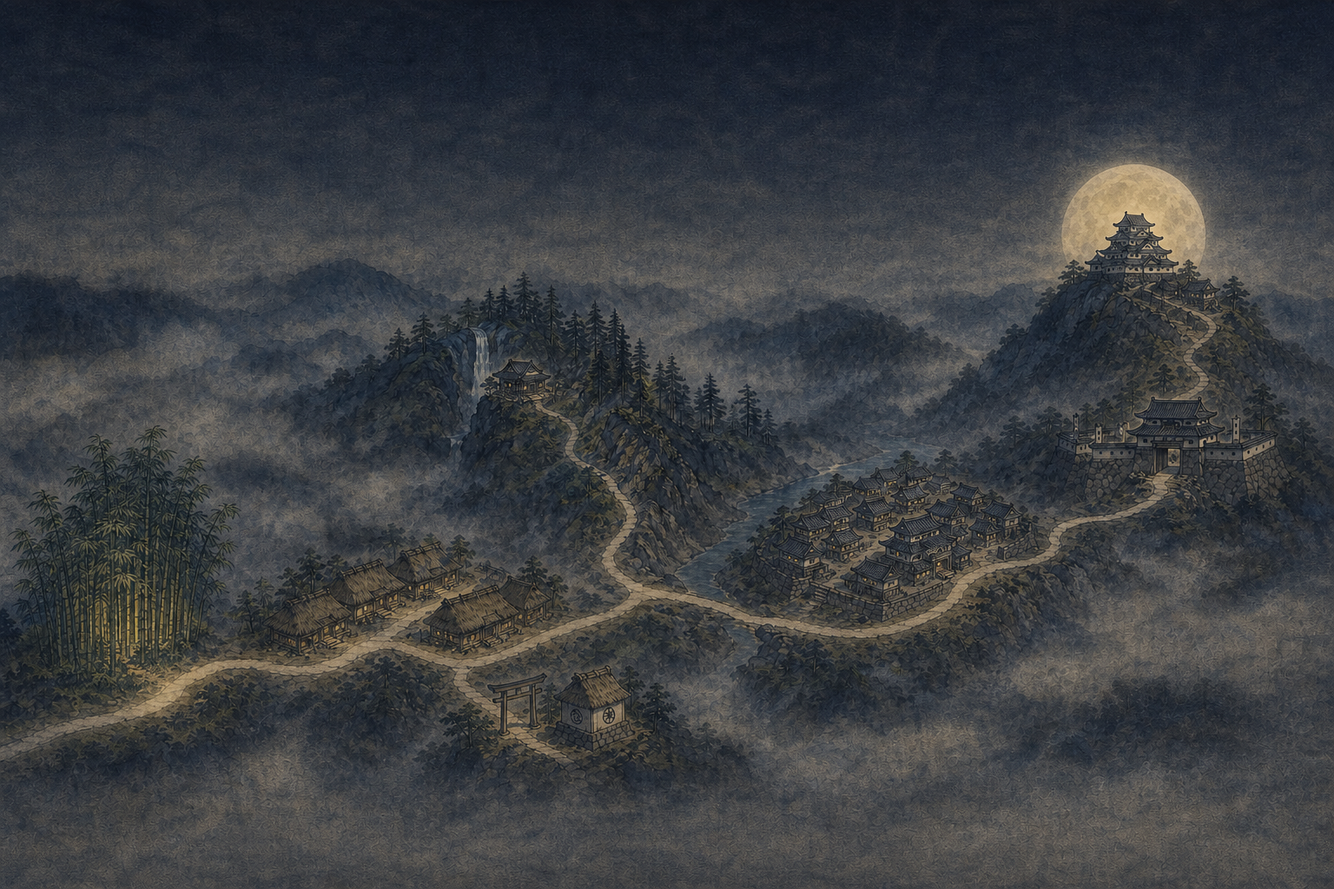
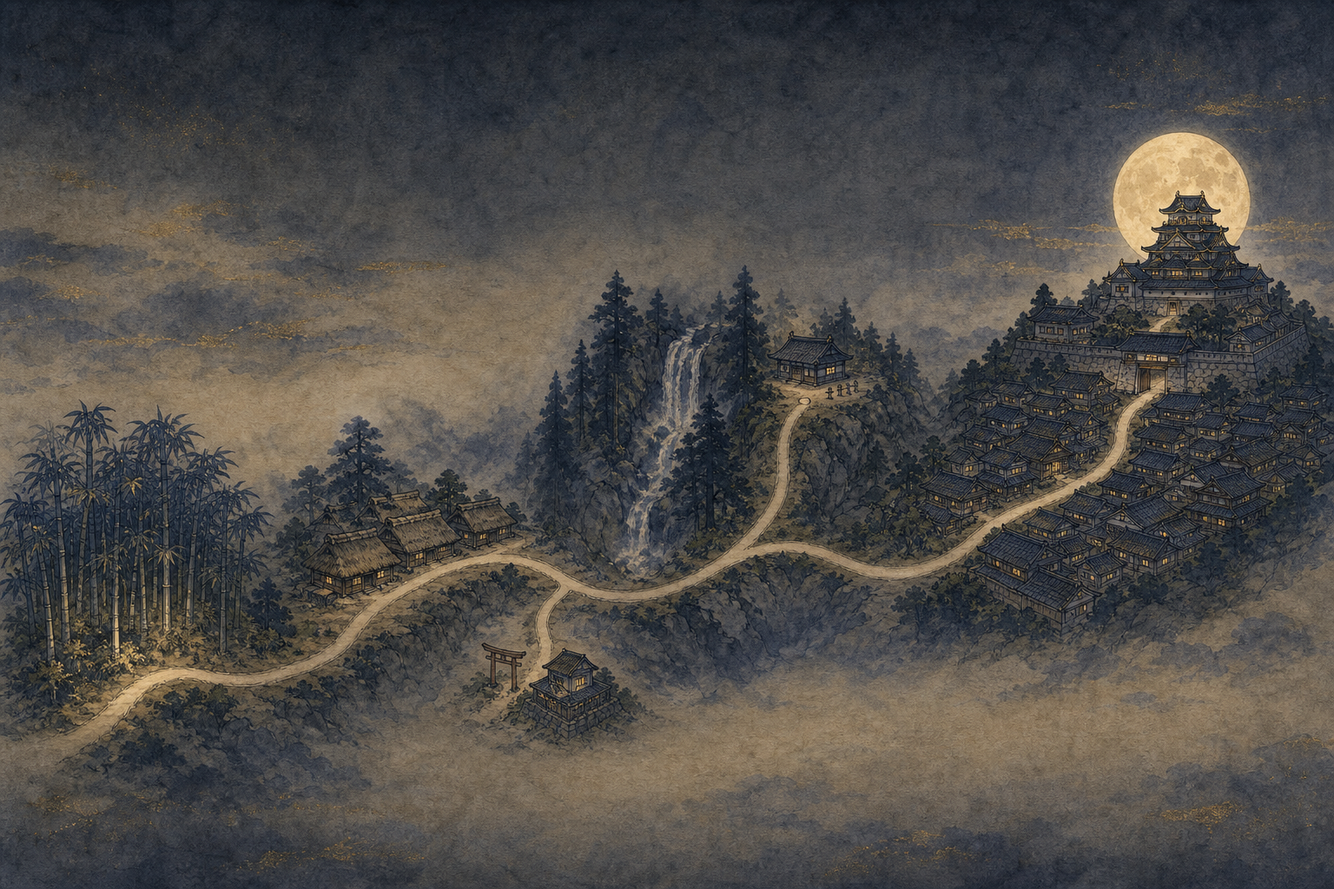
マップを「一本道＋城郭都市」の構図で作り直し
絵そのものの道が網目状で一本道になっていなかった＋構図の追加指示
(⑤⑥は同じ城の中・城下町の中に城・街道→山道→城下町が一本で繋がる)を反映。

- Codex(imagegen)でプロンプトを強化して再生成:
  「道は一本の街道だけ。交差・環状・並行・網目は禁止。例外は行き止まりの
  脇道2本(小判蔵+鳥居/滝のそばの道場)」
  「城下町・城門・天守は一体の城郭都市。町の中に城。門の先の短い坂で天守へ」
- WORLD_MAP_NODES / WORLD_MAP_ROUTE を新しい絵に合わせて再調整。
  5(城門)と6(天守)は同じ城郭内の縦並びに。
- プロンプト正本(map_generation_prompt.md)と再生成スクリプト2種
  (generate-worldmap-codex.sh / generate-worldmap.mjs)を同文へ同期。

検証(preview 767x353 + 1280x720): 1→6が絵の一本道に沿って繋がること、
城下町→城門→天守が近接クラスタで違和感がないこと、
ノード6とBGMボタンの距離(スマホ 90.3 > 必要63.5)。

diff --git a/js/game.js b/js/game.js
@@ -2,12 +2,12 @@
 // Unification of the Nation - ゲームコア
 // ============================================
 
-import { CANVAS_WIDTH, SCREEN_WIDTH, CANVAS_HEIGHT, GAME_STATE, STAGES, DIFFICULTY, OBSTACLE_TYPES, PLAYER, STAGE_DEFAULT_WEAPON, LANE_OFFSET, STAGE6_CORNER, UI_SIZE_ANCHOR, getDeviceProfile, setUiScaleFromFitScale, setCornerInsets, setNotchInsetX, setVirtualPadVisible, setBgmButtonVisible } from './constants.js?v=screen-safe-20260810e';
-import { BOSS_STAGING } from './bossStaging.js?v=screen-safe-20260810e';
-import { isUpdateAvailable, applyUpdate, checkForUpdate } from './appUpdate.js?v=screen-safe-20260810e';
-import { getStageSelectLayout, renderStageSelect } from './stageSelect.js?v=screen-safe-20260810e';
-import { readPhysicalScreen, computeScreenWidth } from './screenGeometry.js?v=screen-safe-20260810e';
-import { input } from './input.js?v=screen-safe-20260810e';
+import { CANVAS_WIDTH, SCREEN_WIDTH, CANVAS_HEIGHT, GAME_STATE, STAGES, DIFFICULTY, OBSTACLE_TYPES, PLAYER, STAGE_DEFAULT_WEAPON, LANE_OFFSET, STAGE6_CORNER, UI_SIZE_ANCHOR, getDeviceProfile, setUiScaleFromFitScale, setCornerInsets, setNotchInsetX, setVirtualPadVisible, setBgmButtonVisible } from './constants.js?v=screen-safe-20260810f';
+import { BOSS_STAGING } from './bossStaging.js?v=screen-safe-20260810f';
+import { isUpdateAvailable, applyUpdate, checkForUpdate } from './appUpdate.js?v=screen-safe-20260810f';
+import { getStageSelectLayout, renderStageSelect } from './stageSelect.js?v=screen-safe-20260810f';
+import { readPhysicalScreen, computeScreenWidth } from './screenGeometry.js?v=screen-safe-20260810f';
+import { input } from './input.js?v=screen-safe-20260810f';
 
 // 最上層の会敵歩行の速度倍率。決戦前の一歩を重くするため通常より遅く歩かせる。
 const STAGE6_APPROACH_SPEED_SCALE = 0.46;   // 会敵歩行の速さ(通常歩行に対する比)
@@ -45,18 +45,18 @@ const STAGE6_DUEL_LEAD_OUT_MS = 1400;   // 開戦後に通常追従へ戻す
 // ボスが足を止めてから名乗りまでの実測483msで残差1.5pxまで収束する。
 const STAGE6_DUEL_LEAD_OMEGA = 12;
 const STAGE6_DUEL_LEAD_MAX_PX = 460;    // 先行量の上限(異常な間合いでカメラが飛ばない保険)
-import { Player } from './player.js?v=screen-safe-20260810e';
-import { createSubWeapon } from './weapon.js?v=screen-safe-20260810e';
-import { Stage, preloadStageImages, prefetchStageImages, areStageImagesSettled } from './stage.js?v=screen-safe-20260810e';
-import { GRAPPLE_PHASE } from './stage6Grapple.js?v=screen-safe-20260810e';
-import { UI, renderTitleScreen, renderTitleDebugWindow, renderGameOverScreen, renderStatusScreen, renderStageClearAnnouncement, renderLevelUpChoiceScreen, renderPauseScreen, getPauseReturnButton, renderGameClearScreen, renderIntro, renderEnding, getTitleScreenLayout, getStatusScreenLayout, getTitleDebugLayout, getUpdateModalLayout, renderBossNameBanner } from './ui.js?v=screen-safe-20260810e';
-import { CollisionManager, checkPlayerEnemyCollision, checkEnemyAttackHit } from './collision.js?v=screen-safe-20260810e';
-import { saveManager } from './save.js?v=screen-safe-20260810e';
-import { shop } from './shop.js?v=screen-safe-20260810e';
-import { audio } from './audio.js?v=screen-safe-20260810e';
-import { ShadowRenderer } from './shadow.js?v=screen-safe-20260810e';
-import { applyShogunCombat } from './shogunCombatHelper.js?v=screen-safe-20260810e';
-import { getRockVisualPalette } from './obstacle.js?v=screen-safe-20260810e';
+import { Player } from './player.js?v=screen-safe-20260810f';
+import { createSubWeapon } from './weapon.js?v=screen-safe-20260810f';
+import { Stage, preloadStageImages, prefetchStageImages, areStageImagesSettled } from './stage.js?v=screen-safe-20260810f';
+import { GRAPPLE_PHASE } from './stage6Grapple.js?v=screen-safe-20260810f';
+import { UI, renderTitleScreen, renderTitleDebugWindow, renderGameOverScreen, renderStatusScreen, renderStageClearAnnouncement, renderLevelUpChoiceScreen, renderPauseScreen, getPauseReturnButton, renderGameClearScreen, renderIntro, renderEnding, getTitleScreenLayout, getStatusScreenLayout, getTitleDebugLayout, getUpdateModalLayout, renderBossNameBanner } from './ui.js?v=screen-safe-20260810f';
+import { CollisionManager, checkPlayerEnemyCollision, checkEnemyAttackHit } from './collision.js?v=screen-safe-20260810f';
+import { saveManager } from './save.js?v=screen-safe-20260810f';
+import { shop } from './shop.js?v=screen-safe-20260810f';
+import { audio } from './audio.js?v=screen-safe-20260810f';
+import { ShadowRenderer } from './shadow.js?v=screen-safe-20260810f';
+import { applyShogunCombat } from './shogunCombatHelper.js?v=screen-safe-20260810f';
+import { getRockVisualPalette } from './obstacle.js?v=screen-safe-20260810f';
 
 // 端末ディスプレイの角丸推定（updateCornerInsets が使う）。
 // R ≒ 画面短辺 × 11%。退避量はコーナー円の幾何最小 0.293R に円形ボタンぶんの
@@ -1117,7 +1117,7 @@ class Game {
         shop.reset();
 
         // 武器作成関数をインポート
-        import('./weapon.js?v=screen-safe-20260810e').then(module => {
+        import('./weapon.js?v=screen-safe-20260810f').then(module => {
             // 基本ステータス復元
             this.currentStageNumber = saveData.progress.currentStage;
             // セレクト画面の解放判定。旧セーブ(フィールド無し)は「保存された次のステージ

diff --git a/js/stageSelect.js b/js/stageSelect.js
@@ -9,8 +9,8 @@
 // ノード座標は「画像内の比率(u,v)」で持ち、cover 変換で画面座標へ写す。
 // 画像を差し替えても u,v を微調整するだけで済む（map_generation_prompt.md 参照）。
 
-import { SCREEN_WIDTH, CANVAS_HEIGHT, STAGES, getUiScale, getFontScale, getScreenSafeArea, isTouchOverlayMode } from './constants.js?v=screen-safe-20260810e';
-import { drawWafuCard, fillTextInkCentered, drawScreenManualLine } from './ui.js?v=screen-safe-20260810e';
+import { SCREEN_WIDTH, CANVAS_HEIGHT, STAGES, getUiScale, getFontScale, getScreenSafeArea, isTouchOverlayMode } from './constants.js?v=screen-safe-20260810f';
+import { drawWafuCard, fillTextInkCentered, drawScreenManualLine } from './ui.js?v=screen-safe-20260810f';
 
 // ノード定義。kind: main=本編 / bonus=小判蔵 / training=道場。
 // bonus/training はフェーズ2で解放（データだけ先に持ち、表示は main のみ）。
@@ -19,27 +19,27 @@ import { drawWafuCard, fillTextInkCentered, drawScreenManualLine } from './ui.js
 // （円がランドマークを隠すと絵が見えない、と実機フィードバック）。
 // 画像を再生成したらここを目視で微調整する。
 export const WORLD_MAP_NODES = [
-    { id: 1, kind: 'main', u: 0.165, v: 0.815 },  // 竹林の入口（竹やぶ右下の道）
-    { id: 2, kind: 'main', u: 0.300, v: 0.775 },  // 宿場の前の街道
-    { id: 3, kind: 'main', u: 0.500, v: 0.475 },  // 峠の頂の道
-    { id: 4, kind: 'main', u: 0.655, v: 0.700 },  // 城下町の南の街道
-    { id: 5, kind: 'main', u: 0.850, v: 0.565 },  // 城門の前
+    { id: 1, kind: 'main', u: 0.115, v: 0.765 },  // 竹林の入口（道の起点近く）
+    { id: 2, kind: 'main', u: 0.305, v: 0.655 },  // 宿場の前の街道
+    { id: 3, kind: 'main', u: 0.545, v: 0.520 },  // 峠（滝の右の高み）
+    { id: 4, kind: 'main', u: 0.700, v: 0.615 },  // 城下町の入口（町並みの手前）
+    { id: 5, kind: 'main', u: 0.865, v: 0.425 },  // 城門（町の奥・石垣）
     // 6 はスマホ(wide)の縦クロップで上へ寄るため、右上のBGMボタンとの重なりに注意
-    { id: 6, kind: 'main', u: 0.845, v: 0.345 },  // 天守へ登る坂（天守と月は隠さない）
-    { id: 'bonus1', kind: 'bonus', u: 0.410, v: 0.800 },     // 小判蔵（鳥居の脇道）
-    { id: 'training1', kind: 'training', u: 0.400, v: 0.435 } // 道場（滝のそば）
+    { id: 6, kind: 'main', u: 0.868, v: 0.300 },  // 天守閣（月の下）
+    { id: 'bonus1', kind: 'bonus', u: 0.405, v: 0.740 },      // 小判蔵（鳥居の脇道・行き止まり）
+    { id: 'training1', kind: 'training', u: 0.605, v: 0.415 } // 道場（滝の上の建物）
 ];
 
 // 街道のウェイポイント（ノードiからi+1への中間点列・画像内比率）。
 // 経路線はノード同士を直線で結ばず、この点列で**絵に描かれた一本道**をなぞる
 // （直結だと谷や町を突っ切る線になり「道」に見えない、と実機フィードバック）。
 const WORLD_MAP_ROUTE = [
-    [{ u: 0.215, v: 0.805 }, { u: 0.255, v: 0.795 }],                                     // 1→2 宿場へ
-    [{ u: 0.370, v: 0.755 }, { u: 0.415, v: 0.705 }, { u: 0.437, v: 0.630 },
-     { u: 0.455, v: 0.550 }, { u: 0.476, v: 0.500 }],                                     // 2→3 峠越え
-    [{ u: 0.522, v: 0.520 }, { u: 0.556, v: 0.585 }, { u: 0.600, v: 0.648 }],             // 3→4 川沿いに下る
-    [{ u: 0.712, v: 0.716 }, { u: 0.770, v: 0.705 }, { u: 0.815, v: 0.655 }],             // 4→5 城門へ登る
-    [{ u: 0.863, v: 0.510 }, { u: 0.870, v: 0.452 }, { u: 0.860, v: 0.398 }]              // 5→6 天守への坂
+    [{ u: 0.170, v: 0.745 }, { u: 0.225, v: 0.710 }, { u: 0.265, v: 0.680 }],             // 1→2 宿場へ
+    [{ u: 0.365, v: 0.630 }, { u: 0.415, v: 0.612 }, { u: 0.470, v: 0.580 },
+     { u: 0.510, v: 0.550 }],                                                             // 2→3 峠へ登る
+    [{ u: 0.585, v: 0.470 }, { u: 0.622, v: 0.478 }, { u: 0.655, v: 0.545 }],             // 3→4 町へ下る
+    [{ u: 0.755, v: 0.575 }, { u: 0.808, v: 0.520 }, { u: 0.843, v: 0.468 }],             // 4→5 町を抜け城門へ
+    [{ u: 0.873, v: 0.375 }, { u: 0.872, v: 0.335 }]                                      // 5→6 天守への坂
 ];
 
 // フォールバック座標系（画像未配置のとき）。生成指示と同じ 1536x1024 を仮想画像として

diff --git a/js/player.js b/js/player.js
@@ -2,11 +2,11 @@
 // Unification of the Nation - プレイヤークラス
 // ============================================
 
-import { PLAYER, GRAVITY, FRICTION, COLORS, LANE_OFFSET } from './constants.js?v=screen-safe-20260810e';
-import { input } from './input.js?v=screen-safe-20260810e';
+import { PLAYER, GRAVITY, FRICTION, COLORS, LANE_OFFSET } from './constants.js?v=screen-safe-20260810f';
+import { input } from './input.js?v=screen-safe-20260810f';
 console.log('[player.js] Imported input instance:', input ? input.instanceId : 'undefined');
-import { audio } from './audio.js?v=screen-safe-20260810e';
-import { game } from './game.js?v=screen-safe-20260810e';
+import { audio } from './audio.js?v=screen-safe-20260810f';
+import { game } from './game.js?v=screen-safe-20260810f';
 import {
     ANIM_STATE, COMBO_ATTACKS, calcExpToNextForLevel,
     BASE_EXP_TO_NEXT, TEMP_NINJUTSU_MAX_STACK_MS, LEVEL_UP_MAX_HP_GAIN, LEVEL_UP_ATK_GAIN,
@@ -14,17 +14,17 @@ import {
     PLAYER_PONYTAIL_CONNECT_LIFT_Y, PLAYER_PONYTAIL_ROOT_ANGLE_RIGHT,
     PLAYER_PONYTAIL_ROOT_ANGLE_LEFT, PLAYER_PONYTAIL_ROOT_SHIFT_X,
     PLAYER_PONYTAIL_NODE_ROOT_OFFSET_X, PLAYER_PONYTAIL_NODE_ROOT_OFFSET_Y
-} from './playerData.js?v=screen-safe-20260810e';
+} from './playerData.js?v=screen-safe-20260810f';
 import {
     applyNormalComboActiveMotion,
     applyNormalComboStartMotion,
     freezeNormalComboFinisherTrailCurve,
     prepareNormalComboFinisherProfile
-} from './normalComboMotion.js?v=screen-safe-20260810e';
-import { applyRendererMixin }    from './playerRenderer.js?v=screen-safe-20260810e';
-import { applySlashTrailMixin }  from './playerSlashTrail.js?v=screen-safe-20260810e';
-import { applySpecialMixin }     from './playerSpecial.js?v=screen-safe-20260810e';
-import { applyShogunCombat }    from './shogunCombatHelper.js?v=screen-safe-20260810e';
+} from './normalComboMotion.js?v=screen-safe-20260810f';
+import { applyRendererMixin }    from './playerRenderer.js?v=screen-safe-20260810f';
+import { applySlashTrailMixin }  from './playerSlashTrail.js?v=screen-safe-20260810f';
+import { applySpecialMixin }     from './playerSpecial.js?v=screen-safe-20260810f';
+import { applyShogunCombat }    from './shogunCombatHelper.js?v=screen-safe-20260810f';
 import {
     SHOGUN_ACTOR_BASE_HEIGHT,
     SHOGUN_ACTOR_BASE_WIDTH,
@@ -38,7 +38,7 @@ import {
     SHOGUN_CROUCH_STANCE_DUTY,
     NINJA_CROUCH_STRIDE_AMP,
     SHOGUN_CROUCH_STRIDE_AMP
-} from './shogunConstants.js?v=screen-safe-20260810e';
+} from './shogunConstants.js?v=screen-safe-20260810f';
 
 const clamp01 = (v) => Math.max(0, Math.min(1, v));
 

diff --git a/js/stage.js b/js/stage.js
@@ -2,19 +2,19 @@
 // Unification of the Nation - ステージ管理
 // ============================================
 
-import { CANVAS_WIDTH, CANVAS_HEIGHT, SCREEN_WIDTH, STAGES, ENEMY_TYPES, OBSTACLE_TYPES, LANE_OFFSET, STAGE5_FLOOR, STAGE6_CORNER } from './constants.js?v=screen-safe-20260810e';
-import { BOSS_STAGING } from './bossStaging.js?v=screen-safe-20260810e';
-import { createEnemy } from './enemy.js?v=screen-safe-20260810e';
-import { createBoss } from './boss.js?v=screen-safe-20260810e';
-import { createObstacle } from './obstacle.js?v=screen-safe-20260810e';
-import { audio } from './audio.js?v=screen-safe-20260810e';
-import { generateStairsCanvas } from './stairRenderer.js?v=screen-safe-20260810e';
+import { CANVAS_WIDTH, CANVAS_HEIGHT, SCREEN_WIDTH, STAGES, ENEMY_TYPES, OBSTACLE_TYPES, LANE_OFFSET, STAGE5_FLOOR, STAGE6_CORNER } from './constants.js?v=screen-safe-20260810f';
+import { BOSS_STAGING } from './bossStaging.js?v=screen-safe-20260810f';
+import { createEnemy } from './enemy.js?v=screen-safe-20260810f';
+import { createBoss } from './boss.js?v=screen-safe-20260810f';
+import { createObstacle } from './obstacle.js?v=screen-safe-20260810f';
+import { audio } from './audio.js?v=screen-safe-20260810f';
+import { generateStairsCanvas } from './stairRenderer.js?v=screen-safe-20260810f';
 import {
     GRAPPLE_PHASE, createGrappleState, isGrappleActive, grappleProgress,
     startGrapple, updateGrapple, updateGrappleVisual, grapplePullEase, grapplePullPosition,
     renderGrappleBehind, renderGrappleFront
-} from './stage6Grapple.js?v=screen-safe-20260810e';
-import { getImage, preloadImages, prefetchImages, areImagesSettled, shouldSkipPrefetch } from './imageCache.js?v=screen-safe-20260810e';
+} from './stage6Grapple.js?v=screen-safe-20260810f';
+import { getImage, preloadImages, prefetchImages, areImagesSettled, shouldSkipPrefetch } from './imageCache.js?v=screen-safe-20260810f';
 
 // ============================================
 // ステージ背景アセットの単一ソース

diff --git a/js/ui.js b/js/ui.js
@@ -2,9 +2,9 @@
 // Unification of the Nation - UIクラス
 // ============================================
 
-import { SCREEN_WIDTH, CANVAS_HEIGHT, COLORS, VIRTUAL_PAD, HUD_PANEL_X, getDeviceProfile, getPadLayout, getUiScale, getFontScale, getFitScale, getScreenSafeArea, getUiLeftEdge, getFullHeightSideInset, isTouchOverlayMode, setVirtualPadVisible } from './constants.js?v=screen-safe-20260810e';
+import { SCREEN_WIDTH, CANVAS_HEIGHT, COLORS, VIRTUAL_PAD, HUD_PANEL_X, getDeviceProfile, getPadLayout, getUiScale, getFontScale, getFitScale, getScreenSafeArea, getUiLeftEdge, getFullHeightSideInset, isTouchOverlayMode, setVirtualPadVisible } from './constants.js?v=screen-safe-20260810f';
 
-import { isUpdateAvailable } from './appUpdate.js?v=screen-safe-20260810e';
+import { isUpdateAvailable } from './appUpdate.js?v=screen-safe-20260810f';
 
 // 左上HUDの文字だけ、実寸アンカー(getFontScale)からさらに落とす係数。
 // 実測 16.0css-px は情報量の割に大きいという実機フィードバック(2026-08-09)。
@@ -22,9 +22,9 @@ const UPDATE_MODAL_TITLE = '新しいバージョンがあります';
 const UPDATE_MODAL_BODY = '最新の状態に更新してください';
 const UPDATE_MODAL_BUTTON_TOUCH = 'タップして更新';
 const UPDATE_MODAL_BUTTON_KEY = 'クリックまたはSPACEで更新';
-import { input } from './input.js?v=screen-safe-20260810e';
-import { audio } from './audio.js?v=screen-safe-20260810e';
-import { saveManager } from './save.js?v=screen-safe-20260810e';
+import { input } from './input.js?v=screen-safe-20260810f';
+import { audio } from './audio.js?v=screen-safe-20260810f';
+import { saveManager } from './save.js?v=screen-safe-20260810f';
 
 const CONTROL_MANUAL_TEXT = '←→：移動 | ↓：しゃがみ | ↑・SPACE：ジャンプ | Z：攻撃 | X：忍具 | C：切り替え | S：奥義 | SHIFT：ダッシュ | ESC：ポーズ';
 const TITLE_MANUAL_TEXT = '↑↓：選択 | ←→：難易度 | SPACE：決定';

diff --git a/js/boss.js b/js/boss.js
@@ -2,17 +2,17 @@
 // Unification of the Nation - ボスクラス
 // ============================================
 
-import { CANVAS_WIDTH, LANE_OFFSET, PLAYER, GRAVITY, GAME_STATE } from './constants.js?v=screen-safe-20260810e';
-import { Enemy } from './enemy.js?v=screen-safe-20260810e';
-import { createSubWeapon } from './weapon.js?v=screen-safe-20260810e';
-import { audio } from './audio.js?v=screen-safe-20260810e';
-import { Player } from './player.js?v=screen-safe-20260810e';
+import { CANVAS_WIDTH, LANE_OFFSET, PLAYER, GRAVITY, GAME_STATE } from './constants.js?v=screen-safe-20260810f';
+import { Enemy } from './enemy.js?v=screen-safe-20260810f';
+import { createSubWeapon } from './weapon.js?v=screen-safe-20260810f';
+import { audio } from './audio.js?v=screen-safe-20260810f';
+import { Player } from './player.js?v=screen-safe-20260810f';
 import {
     applyNormalComboActiveMotion,
     applyNormalComboStartMotion,
     freezeNormalComboFinisherTrailCurve,
     prepareNormalComboFinisherProfile
-} from './normalComboMotion.js?v=screen-safe-20260810e';
+} from './normalComboMotion.js?v=screen-safe-20260810f';
 import {
     SHOGUN_ACTOR_BASE_HEIGHT,
     SHOGUN_ACTOR_BASE_WIDTH,
@@ -21,7 +21,7 @@ import {
     SHOGUN_HEAD_SCALE,
     SHOGUN_HIP_LIFT_PX,
     SHOGUN_SCALE
-} from './shogunConstants.js?v=screen-safe-20260810e';
+} from './shogunConstants.js?v=screen-safe-20260810f';
 import {
     BOSS_DESIGNS,
     renderBossActor,
@@ -35,7 +35,7 @@ import {
     kusarigamaStance,
     drawCarriedKusarigama,
     odachiStance
-} from './bossRenderer.js?v=screen-safe-20260810e';
+} from './bossRenderer.js?v=screen-safe-20260810f';
 
 // weaponReplica の攻撃進行度(0..1)。体の所作を実体のタイムラインへ同期させる。
 function replicaProgress(replica) {

diff --git a/js/playerRenderer.js b/js/playerRenderer.js
@@ -1,16 +1,16 @@
 // Unification of the Nation - 描画系 mixin
 
-import { PLAYER, GRAVITY, FRICTION, COLORS, LANE_OFFSET } from './constants.js?v=screen-safe-20260810e';
-import { audio } from './audio.js?v=screen-safe-20260810e';
-import { game } from './game.js?v=screen-safe-20260810e';
+import { PLAYER, GRAVITY, FRICTION, COLORS, LANE_OFFSET } from './constants.js?v=screen-safe-20260810f';
+import { audio } from './audio.js?v=screen-safe-20260810f';
+import { game } from './game.js?v=screen-safe-20260810f';
 import {
     ANIM_STATE, COMBO_ATTACKS, PLAYER_HEADBAND_LINE_WIDTH, PLAYER_SPECIAL_HEADBAND_LINE_WIDTH,
     PLAYER_PONYTAIL_CONNECT_LIFT_Y, PLAYER_PONYTAIL_ROOT_ANGLE_RIGHT,
     PLAYER_PONYTAIL_ROOT_ANGLE_LEFT, PLAYER_PONYTAIL_ROOT_SHIFT_X,
     PLAYER_PONYTAIL_NODE_ROOT_OFFSET_X, PLAYER_PONYTAIL_NODE_ROOT_OFFSET_Y,
     BASE_EXP_TO_NEXT, TEMP_NINJUTSU_MAX_STACK_MS, LEVEL_UP_MAX_HP_GAIN
-} from './playerData.js?v=screen-safe-20260810e';
-import { applyShogunRendererMixin } from './shogunRendererHelper.js?v=screen-safe-20260810e';
+} from './playerData.js?v=screen-safe-20260810f';
+import { applyShogunRendererMixin } from './shogunRendererHelper.js?v=screen-safe-20260810f';
 import {
     SHOGUN_SCALE,
     SHOGUN_ACTOR_BASE_HEIGHT,
@@ -36,7 +36,7 @@ import {
     NINJA_CROUCH_LIFT_AMP,
     SHOGUN_CROUCH_LIFT_AMP,
     SHOGUN_RUN_STRIDE_CENTER_BIAS
-} from './shogunConstants.js?v=screen-safe-20260810e';
+} from './shogunConstants.js?v=screen-safe-20260810f';
 
 export function applyRendererMixin(PlayerClass) {
     applyShogunRendererMixin(PlayerClass);

diff --git a/js/playerSlashTrail.js b/js/playerSlashTrail.js
@@ -1,17 +1,17 @@
 // Unification of the Nation - 斬撃トレイル mixin
 
-import { PLAYER, GRAVITY, FRICTION, LANE_OFFSET } from './constants.js?v=screen-safe-20260810e';
-import { COMBO_ATTACKS, NORMAL_COMBO_STEP3_LAUNCH_VY, NORMAL_COMBO_STEP3_LUNGE_HSCALE_COEF, SHOGUN_STEP3_MOTION_SCALE } from './playerData.js?v=screen-safe-20260810e';
+import { PLAYER, GRAVITY, FRICTION, LANE_OFFSET } from './constants.js?v=screen-safe-20260810f';
+import { COMBO_ATTACKS, NORMAL_COMBO_STEP3_LAUNCH_VY, NORMAL_COMBO_STEP3_LUNGE_HSCALE_COEF, SHOGUN_STEP3_MOTION_SCALE } from './playerData.js?v=screen-safe-20260810f';
 import {
     SHOGUN_ACTOR_BASE_WIDTH,
     SHOGUN_ACTOR_BASE_HEIGHT,
     SHOGUN_ARM_REACH_SCALE
-} from './shogunConstants.js?v=screen-safe-20260810e';
+} from './shogunConstants.js?v=screen-safe-20260810f';
 import {
     freezeNormalComboFinisherTrailCurve,
     getNormalComboStep4RiseScale,
     getNormalComboStep5DownwardControl
-} from './normalComboMotion.js?v=screen-safe-20260810e';
+} from './normalComboMotion.js?v=screen-safe-20260810f';
 
 const COMBO_STEP5_END_TRIM_FACTOR = 0.9;
 const getComboStep5EndTrimFactor = (physicalScale = 1) => {

diff --git a/js/playerSpecial.js b/js/playerSpecial.js
@@ -1,16 +1,16 @@
 // Unification of the Nation - 分身クローン mixin
 
-import { PLAYER, LANE_OFFSET } from './constants.js?v=screen-safe-20260810e';
-import { audio } from './audio.js?v=screen-safe-20260810e';
-import { createSubWeapon } from './weapon.js?v=screen-safe-20260810e';
-import { ANIM_STATE, COMBO_ATTACKS } from './playerData.js?v=screen-safe-20260810e';
+import { PLAYER, LANE_OFFSET } from './constants.js?v=screen-safe-20260810f';
+import { audio } from './audio.js?v=screen-safe-20260810f';
+import { createSubWeapon } from './weapon.js?v=screen-safe-20260810f';
+import { ANIM_STATE, COMBO_ATTACKS } from './playerData.js?v=screen-safe-20260810f';
 import {
     SHOGUN_ACTOR_BASE_WIDTH,
     SHOGUN_ACTOR_BASE_HEIGHT,
     SHOGUN_SCALE,
     SHOGUN_SPECIAL_CLONE_SPACING_SCALE
-} from './shogunConstants.js?v=screen-safe-20260810e';
-import { getNormalComboStep4RiseScale } from './normalComboMotion.js?v=screen-safe-20260810e';
+} from './shogunConstants.js?v=screen-safe-20260810f';
+import { getNormalComboStep4RiseScale } from './normalComboMotion.js?v=screen-safe-20260810f';
 
 export function applySpecialMixin(PlayerClass) {
 

diff --git a/js/weapon.js b/js/weapon.js
@@ -2,10 +2,10 @@
 // Unification of the Nation - 武器クラス
 // ============================================
 
-import { GRAVITY, CANVAS_WIDTH, LANE_OFFSET, PLAYER } from './constants.js?v=screen-safe-20260810e';
-import { audio } from './audio.js?v=screen-safe-20260810e';
-import { SHOGUN_SCALE } from './shogunConstants.js?v=screen-safe-20260810e';
-import { withDropShadow, drawSparks, drawBlastFlash, makeParticles, smoothstep01, pushTrailPoint, drawCometRibbon } from './weaponFx.js?v=screen-safe-20260810e';
+import { GRAVITY, CANVAS_WIDTH, LANE_OFFSET, PLAYER } from './constants.js?v=screen-safe-20260810f';
+import { audio } from './audio.js?v=screen-safe-20260810f';
+import { SHOGUN_SCALE } from './shogunConstants.js?v=screen-safe-20260810f';
+import { withDropShadow, drawSparks, drawBlastFlash, makeParticles, smoothstep01, pushTrailPoint, drawCometRibbon } from './weaponFx.js?v=screen-safe-20260810f';
 
 // 武器ジオメトリは「武器を振る主体(owner/player)のワールド寸法」を基準に組み立てる。
 // 将軍は width/height が素体(40x60)なので getWorldWidth/Height(=素体×SHOGUN_SCALE) を読む。

diff --git a/js/shop.js b/js/shop.js
@@ -2,10 +2,10 @@
 // Unification of the Nation - ショップ機能
 // ============================================
 
-import { SCREEN_WIDTH, CANVAS_HEIGHT, getUiScale, getFontScale } from './constants.js?v=screen-safe-20260810e';
-import { input } from './input.js?v=screen-safe-20260810e';
-import { audio } from './audio.js?v=screen-safe-20260810e';
-import { drawScreenManualLine, drawWafuCard, drawWafuHeading, drawWafuDivider, drawNumMixedText, drawBgCover } from './ui.js?v=screen-safe-20260810e';
+import { SCREEN_WIDTH, CANVAS_HEIGHT, getUiScale, getFontScale } from './constants.js?v=screen-safe-20260810f';
+import { input } from './input.js?v=screen-safe-20260810f';
+import { audio } from './audio.js?v=screen-safe-20260810f';
+import { drawScreenManualLine, drawWafuCard, drawWafuHeading, drawWafuDivider, drawNumMixedText, drawBgCover } from './ui.js?v=screen-safe-20260810f';
 
 // 背景画像キャッシュ
 let _shopBgImg = null;

diff --git a/js/stage6Grapple.js b/js/stage6Grapple.js
@@ -11,14 +11,14 @@
 // すべて描画と見た目の演出のみ — 当たり判定には一切関与しない。
 // ============================================
 
-import { STAGE6_CORNER } from './constants.js?v=screen-safe-20260810e';
-import { Kusarigama } from './weapon.js?v=screen-safe-20260810e';
+import { STAGE6_CORNER } from './constants.js?v=screen-safe-20260810f';
+import { Kusarigama } from './weapon.js?v=screen-safe-20260810f';
 import {
     chainCurve, sampleQuad, drawChain,
     pushTrailPoint, drawCometRibbon,
     makeParticles, drawSparks, drawBlastFlash,
     smoothstep01
-} from './weaponFx.js?v=screen-safe-20260810e';
+} from './weaponFx.js?v=screen-safe-20260810f';
 
 // 通常武器と同じ描画実装を使う。専用の鉤頭を別造形すると鎖鎌に見えなくなるため、
 // 鎌ヘッドの正本(Kusarigama.drawSickleHead)をこの演出からも直接呼ぶ。
